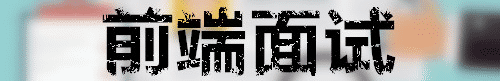
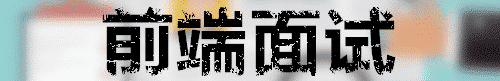
增加前端物语 - 开发规范、设计原则 - Ant Design

diff --git a/chatAbout/前端物语-开发规范.md b/chatAbout/前端物语-开发规范.md
@@ -1,0 +1,116 @@
+<div align="center">
+
+## 前端物语 - Git
+
+  <img src="./../resource/chatAbout_header.png" width="500" />
+
+</div>
+
+---
+
+### 命名规范
+
+#### 驼峰式命名法介绍
+
+###### 大驼峰式命名法
+
+**Pascal Case**：首字母大写。eg：Age 、LastName 、WinterOfDiscontent
+
+###### 小驼峰式命名法
+
+**Camel Case** ：首字母小写。eg：age 、lastName 、winterOfDiscontent
+
+#### 文件命名
+
+- 文件名不得含有 空格
+- 文件名建议只使用小写字母，不使用大写字母。 为了醒目，某些说明文件的文件名，可以使用大写字母，比如 `README`、`LICENSE`。
+- 文件名包含多个单词时，单词之间建议使用半角的连词线 ( - ) 分隔。
+- 引入资源使用相对路径，不要指定资源所带的具体协议 ( `http:`、`https:` ) ，除非这两者协议都不可用。
+- 类文件的命名要与文件内主类名称一致
+
+#### 变量命名
+
+- 普通变量, 使用 `Camel` 命名法
+  ```javascript
+  var loadingModules = {};
+  ```
+- 私有属性、变量和方法以下划线 `_` 开头
+  ```javascript
+  var _privateMethod = {};
+  ```
+- 常量, 使用全部字母大写，单词间下划线分隔的命名方式
+  ```javascript
+  var MAX_COUNT = 10;
+  var URL = "http://www.baidu.com";
+  ```
+- 枚举变量 使用 `Pascal` 命名法。
+  枚举的属性， 使用全部字母大写，单词间下划线分隔的命名方式
+
+  ```javascript
+  enum CommandType {
+    ADD = "CommandAdd",
+    MOVE = "CommandMove",
+    REMOVE = "CommandRemove",
+    DELECT_ALL = "CommandDeleteAll"
+  }
+  ```
+
+- `boolean` 类型的变量使用 `is` 或 `has` 开头，或者使用 `status` 、 `active`关键字
+
+  ```javascript
+  var isReady = false;
+  var hasMoreCommands = false;
+  var active = true;
+  ```
+
+- `Promise` 对象用动宾短语的进行时表达
+  ```javascript
+  var loadingData = ajax.get("url");
+  loadingData.then(callback);
+  ```
+
+#### 函数命名
+
+##### 普通方法
+
+使用 `Camel` 命名法，前缀最好使用动词
+
+| 动词 | 含义                            | 返回值                                                |
+| ---- | ------------------------------- | ----------------------------------------------------- |
+| can  | 判断是否可执行某个动作 ( 权限 ) | 函数返回一个布尔值。true：可执行；false：不可执行     |
+| has  | 判断是否含有某个值              | 函数返回一个布尔值。true：含有此值；false：不含有此值 |
+| is   | 判断是否为某个值                | 函数返回一个布尔值。true：为某个值；false：不为某个值 |
+| get  | 获取某个值                      | 函数返回一个非布尔值                                  |
+| set  | 设置某个值                      | 无返回值、返回是否设置成功或者返回链式对象            |
+
+```javascript
+//是否可阅读
+function canRead() {
+  return true;
+}
+
+//获取姓名
+function getName{
+return this.name
+}
+```
+
+##### 类名、构造函数
+
+使用 `Pascal` 命名法。使用名词
+
+```javascript
+function Student(name) {
+  var _name = name; // 私有成员
+
+  // 公共方法
+  this.getName = function() {
+    return _name;
+  };
+
+  // 公共方式
+  this.setName = function(value) {
+    _name = value;
+  };
+}
+```

diff --git a/README.md b/README.md
@@ -127,7 +127,7 @@
 
 ---
 
-#### [前端物语 - 常识](./interview/前端物语-常识.md)
+#### [前端物语 - 常识](./chatAbout/前端物语-常识.md)
 
 - 前端登录需要处理的流程
 - HTTP 缓存机制
@@ -139,7 +139,7 @@
 - XSS 跨站脚本攻击
 - MVVM 和 MVC 的区别
 
-#### [前端物语 - Git](./interview/前端物语-Git.md)
+#### [前端物语 - Git](./chatAbout/前端物语-Git.md)
 
 - Git & SVN
 - Git 基础命令
@@ -148,6 +148,12 @@
 - Git 修改 commit message
 - Git 撤销已经推送至远端仓库的提交信息
 
+#### [前端物语 - 开发规范](./chatAbout/前端物语-开发规范.md)
+
+- 命名规范
+
 ### 其它
+
+#### [设计原则 - Ant Design](https://ant.design/docs/spec/proximity-cn)
 
 #### [VS Code 插件及配置](./other/VSCode配置.md)

diff --git a/chatAbout/前端物语-常识.md b/chatAbout/前端物语-常识.md
@@ -2,7 +2,7 @@
 
 ## 前端物语 - 常识
 
-  <img src="./../resource/interview_header.png" width="500" />
+  <img src="./../resource/chatAbout_header.png" width="500" />
 
 </div>
 

diff --git a/chatAbout/前端物语-Git.md b/chatAbout/前端物语-Git.md
@@ -2,7 +2,7 @@
 
 ## 前端物语 - Git
 
-  <img src="./../resource/interview_header.png" width="500" />
+  <img src="./../resource/chatAbout_header.png" width="500" />
 
 </div>
 
